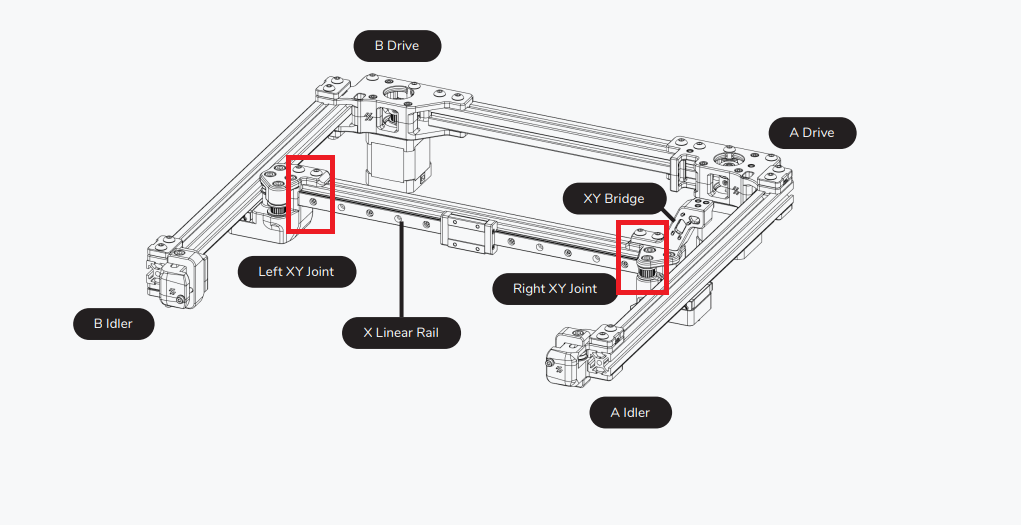
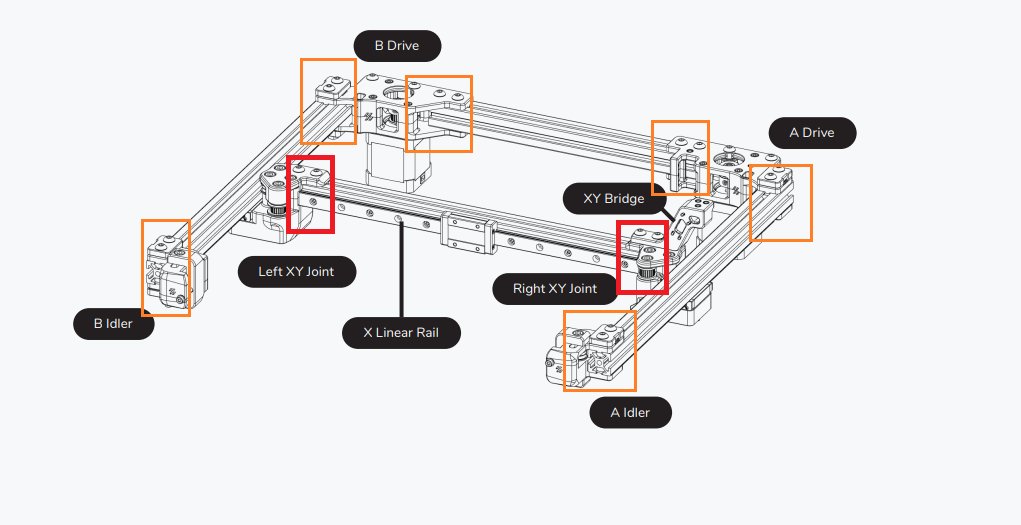
GitBook: [#281] No subject

diff --git a/3d-druck/hersteller-marken-modelle/voron/voron-2.4/dokumentation/ganty-entspannen.md b/3d-druck/hersteller-marken-modelle/voron/voron-2.4/dokumentation/ganty-entspannen.md
@@ -6,6 +6,8 @@ description: Gantry DEracking am Voron V2.4
 
 ## Wie entspanne (deracke) ich die Gantry vom Voron 2.4
 
+Quelle: [Voron Discord Chriss V0.518 V2.2007 RRF](https://discord.com/channels/460117602945990666/460819549202284553/898503103182155776)
+
 #### 1. Aufheizen:
 
 Heize deinen Drucker über einen längeren Zeitraum (\~2h) über das Heizbett auf. Deaktiviere dabei den Exhaust Fan, sodass keine Luft rausgezogen wird.\
@@ -14,20 +16,29 @@ _Wenn ein Nevermore vorhanden ist, kann dieser zur Luftumwälzung gerne eingeset
 
 #### 2. Schrauben lösen:
 
-#### Löse alle M5 Schrauben, welche die x Extrusion an der X/Y Join2 halten. Etwa 2-3 Umdrehung _Oben und unten nicht vergessen_
+Löse alle M5 Schrauben, welche die x Extrusion an der X/Y Join2 halten. Etwa 2-3 Umdrehung\
+_<mark style="background-color:orange;">Die unteren Schrauben nicht vergessen</mark>_
 
 <figure><img src="../../../../../.gitbook/assets/X_Y_Joins_V2.4_lösen.PNG" alt=""><figcaption><p><em>Quelle Voron Manual V2.4r2</em></p></figcaption></figure>
 
-#### 3. Gantry entspannen
+#### 3. Gantry entspannen&#x20;
 
-An allen Gantry Extrusions kräftig wackeln. Gerne auch etwas drehen, sodass sich sämtliche Spannungen lösen können. Das Material kennt dann schon den Weg. Ich mach immer x zuerst. Scharuben natürlich nach jeder Extrusion wieder anziehen. \
+An allen Gantry Extrusions kräftig wackeln. Gerne auch etwas drehen, sodass sich sämtliche Spannungen lösen können. Das Material kennt dann schon den Weg.&#x20;
+
+Nach dem "Freiwackeln" Schrauben natürlich nach jeder Extrusion wieder anziehen. \
 __
 
-#### 4. Linearführungen X Gantry entspannen:
+#### 4. Linearführungen _X Gantry_ entspannen:
 
-Das gleiche dann mit den Linearführungen. Hotend ganz nach rechts, dann von links anfangen die Schrauben zu lösen. bis leicht über die Mitte.
+Das gleiche dann mit den Linearführungen. Hotend ganz nach rechts, dann von links anfangen die Schrauben zu lösen. bis leicht über die Mitte.&#x20;
+
+Am Hotend und der Rail wackeln und von innen nach außen anziehen.&#x20;
 
 <figure><img src="../../../../../.gitbook/assets/X_Rail_V2.4.PNG" alt=""><figcaption></figcaption></figure>
+
+{% hint style="info" %}
+Typischer Hausmannsfehler ist hier auch das "anzerren" einfach handfest reicht
+{% endhint %}
 
 
 
